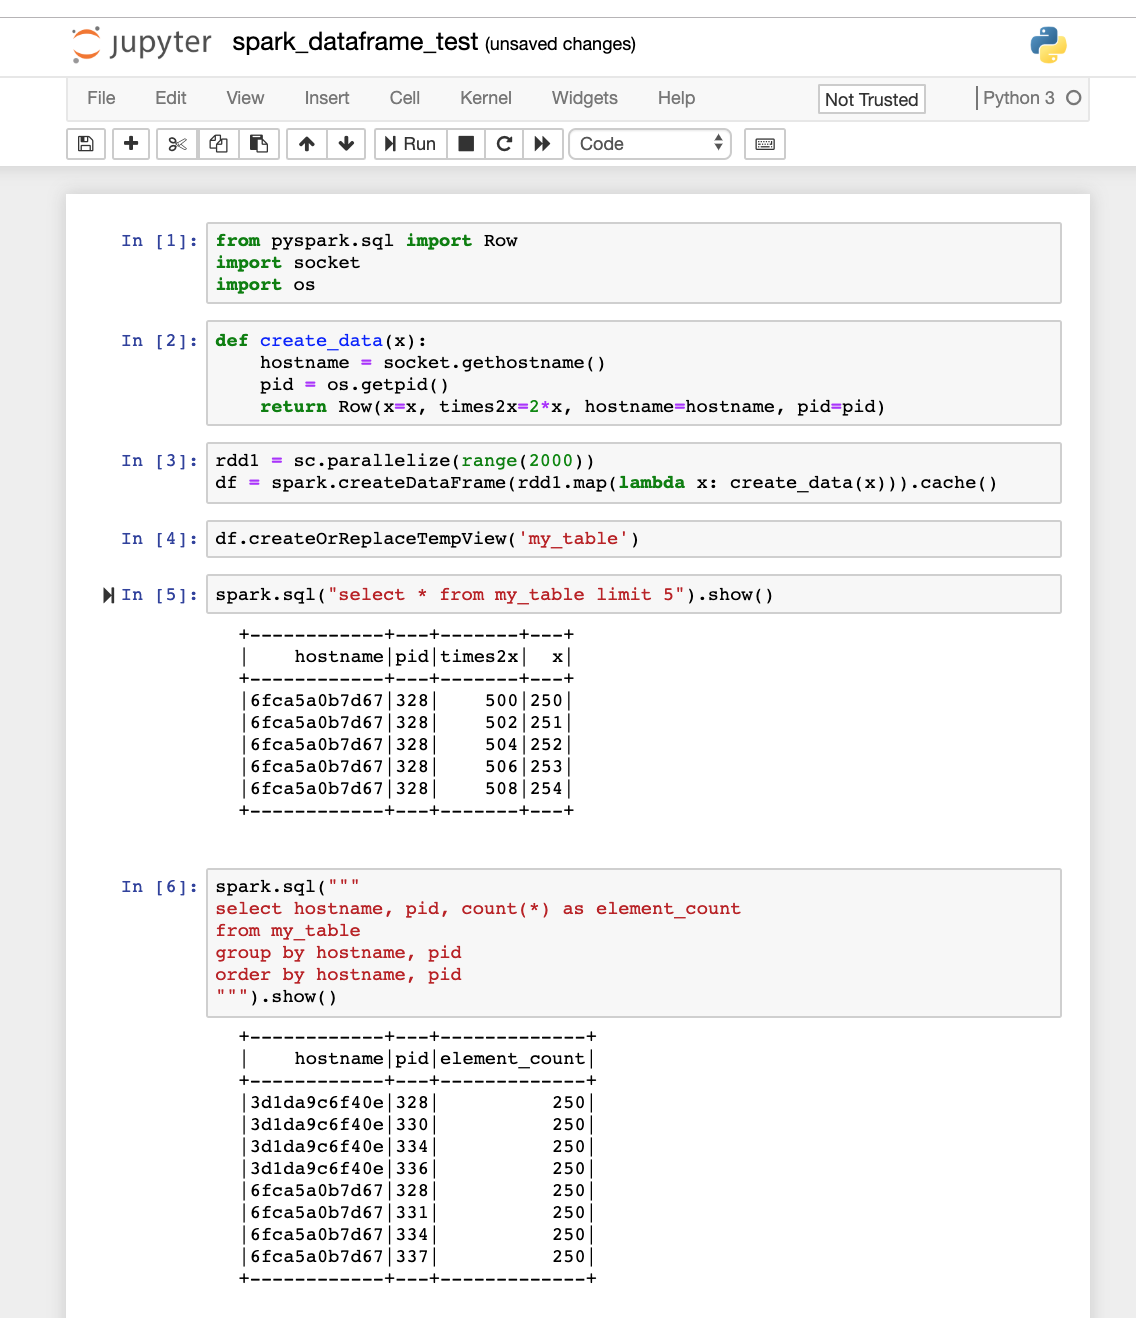
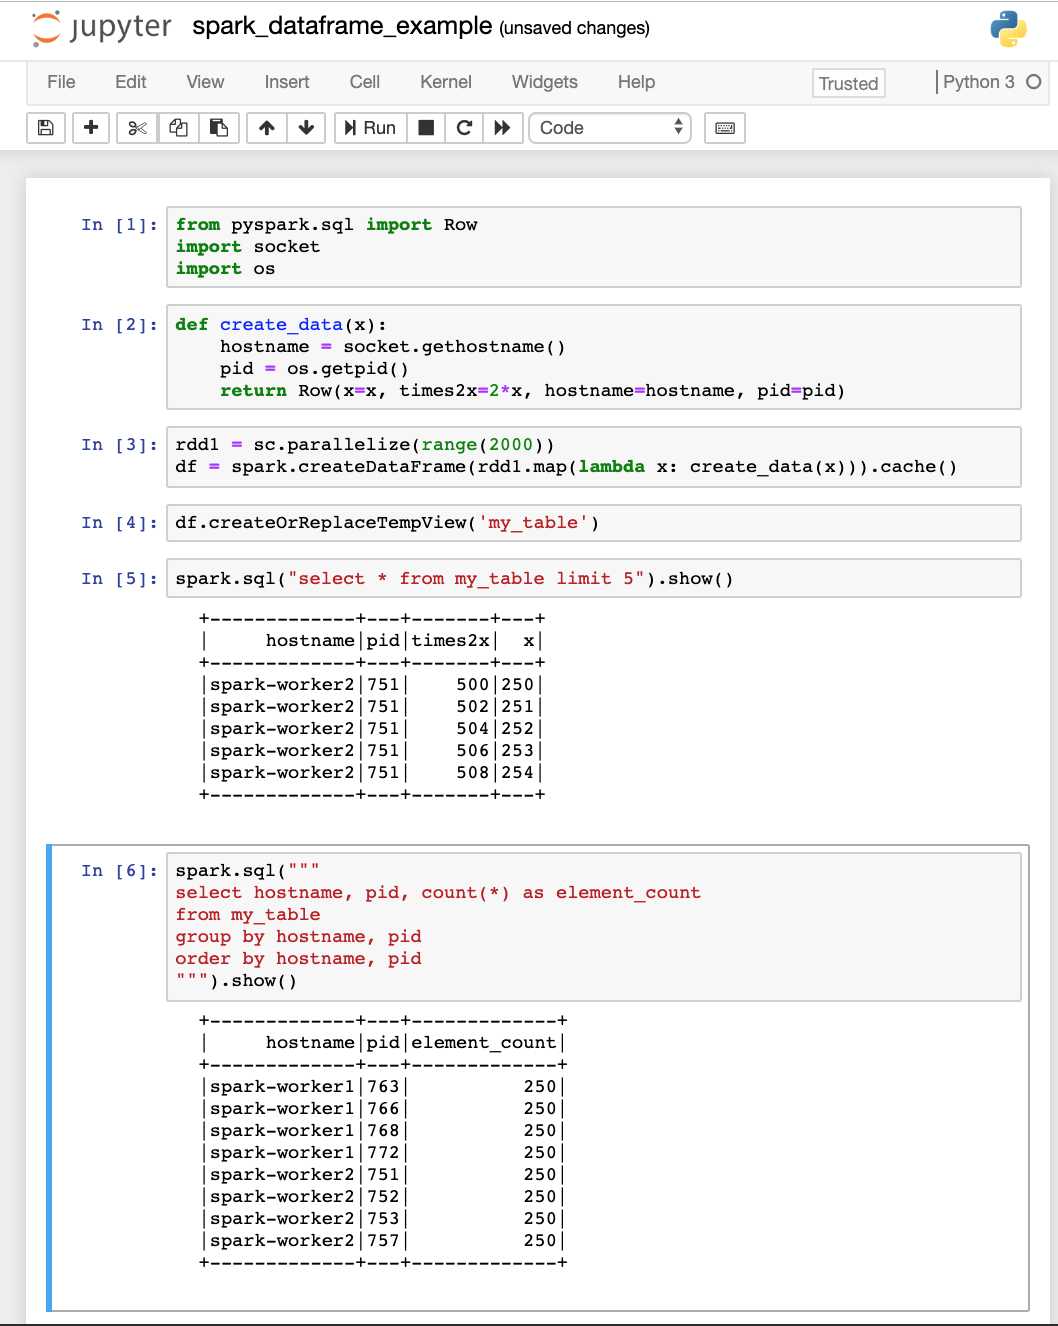
updated documentation for rationalized hostnames

Changed region(s): [[0.0, 0.0, 1.0, 1.0], [0.9357, 0.3111, 0.9669, 0.3422], [0.9357, 0.2178, 0.9669, 0.2489]]

diff --git a/README.md b/README.md
@@ -69,12 +69,12 @@ docker-compose up --detach
 
 To verify the cluster successfully started, run the `docker-compose ps` command.  The output should look similar to below.  
 ```
-       Name                      Command               State                                   Ports                                 
--------------------------------------------------------------------------------------------------------------------------------------
-sprkclstr_master_1    /usr/bin/tini -- /spark/st ...   Up      0.0.0.0:8080->8080/tcp                                                
-sprkclstr_pyspnb_1    /usr/bin/tini -- /spark/st ...   Up      0.0.0.0:4040->4040/tcp, 0.0.0.0:4041->4041/tcp, 0.0.0.0:8888->8888/tcp
-sprkclstr_worker1_1   /usr/bin/tini -- /spark/st ...   Up      0.0.0.0:18081->18081/tcp                                              
-sprkclstr_worker2_1   /usr/bin/tini -- /spark/st ...   Up      0.0.0.0:28081->28081/tcp 
+          Name                         Command               State                                   Ports
+-------------------------------------------------------------------------------------------------------------------------------------------
+sprkclstr_pyspnb-client_1   /usr/bin/tini -- /spark/st ...   Up      0.0.0.0:4040->4040/tcp, 0.0.0.0:4041->4041/tcp, 0.0.0.0:8888->8888/tcp
+sprkclstr_spark-master_1    /usr/bin/tini -- /spark/st ...   Up      0.0.0.0:8080->8080/tcp
+sprkclstr_spark-worker1_1   /usr/bin/tini -- /spark/st ...   Up      0.0.0.0:18081->18081/tcp
+sprkclstr_spark-worker2_1   /usr/bin/tini -- /spark/st ...   Up      0.0.0.0:28081->28081/tcp
 ```
 
 ## Shutdown Stand-alone Spark Cluster
@@ -114,82 +114,95 @@ The following web UIs are available:
 ## Using `spark-submit` on the Stand-alone Spark Cluster
 In addition to a PySpark Jupyter Notebook Server, it is possible to use the `spark-submit` cli to submit work to the cluster.  These are the steps to use `spark-submit`:
 
-* Connect to the `pyspnb` container using `docker exec -it sprkclstr_pyspnb_1 /bin/bash` command.  Note:  Container name is the one dispalyed for the `pyspnb` image shown by the `docker-compose ps` command.
-* Once connected, remove the `PYSPARK_DRIVER_PYTHON` environment variable by executing this command `unset PYSPARK_DRIVER_PYTHON`
+* Connect to the `pyspnb` container using `docker exec -it sprkclstr_pyspnb-client_1 /bin/bash` command.  Note:  Container name is the one dispalyed for the `pyspnb` image shown by the `docker-compose ps` command.
 * Navigate to the container directory containing program to run with `spark-submit`
 * Execute the `spark-submit` command
 
-Following is an example of the above steps.
+Following illustrates the above steps with embedded commentary.
 ```
-Jim-MacBook-Pro:~ jim$ docker exec -it sprkclstr_pyspnb_1 /bin/bash
+#
+# On the host, execute `docker exec`
+#
+Jim-MacBook-Pro:~ jim$ docker exec -it sprkclstr_pyspnb-client_1 /bin/bash
 
-(base) root@4ff5c2e8ebe6:/# unset PYSPARK_DRIVER_PYTHON
-
-(base) root@4ff5c2e8ebe6:/# pwd
+#
+# Following commands are executed in the sprkclstr_pyspnb-client_1 container
+#
+(base) root@pyspnb-client:/opt/project# hostname
+pyspnb-client
+(base) root@pyspnb-client:/# pwd
 /
+(base) root@pyspnb-client:/# ls
+bin  boot  dev	etc  home  lib	lib64  media  mnt  opt	proc  root  run  sbin  spark  srv  sys	tmp  usr  var
 
-(base) root@4ff5c2e8ebe6:/# cd /opt/project
-
-(base) root@4ff5c2e8ebe6:/opt/project# ls
+#
+# navigate to the directory in the container with program to run
+#
+(base) root@pyspnb-client:/# cd /opt/project
+(base) root@pyspnb-client:/opt/project# ls
 README.md    derby.log	   spark_dataframe_example.ipynb  spark_hive_create_table.ipynb
 __pycache__  metastore_db  spark_dataframe_example.py	  spark_hive_read_table.ipynb
 
-(base) root@4ff5c2e8ebe6:/opt/project# spark-submit --master spark://master:7077 spark_dataframe_example.py
-19/04/21 14:14:30 WARN NativeCodeLoader: Unable to load native-hadoop library for your platform... using builtin-java classes where applicable
+#
+# Execute `spark-submit` specifying spark-master and Python progrma to run.
+#
+(base) root@pyspnb-client:/opt/project# spark-submit --master spark://spark-master:7077 spark_dataframe_example.py
+19/04/21 17:52:41 WARN NativeCodeLoader: Unable to load native-hadoop library for your platform... using builtin-java classes where applicable
 Using Spark's default log4j profile: org/apache/spark/log4j-defaults.properties
-19/04/21 14:14:31 INFO SparkContext: Running Spark version 2.4.1
-19/04/21 14:14:31 INFO SparkContext: Submitted application: PySpark - Test
-19/04/21 14:14:31 INFO SecurityManager: Changing view acls to: root
-19/04/21 14:14:31 INFO SecurityManager: Changing modify acls to: root
-19/04/21 14:14:31 INFO SecurityManager: Changing view acls groups to:
-19/04/21 14:14:31 INFO SecurityManager: Changing modify acls groups to:
-19/04/21 14:14:31 INFO SecurityManager: SecurityManager: authentication disabled; ui acls disabled; users  with view permissions: Set(root); groups with view permissions: Set(); users  with modify permissions: Set(root); groups with modify permissions: Set()
-19/04/21 14:14:31 INFO Utils: Successfully started service 'sparkDriver' on port 36991.
-19/04/21 14:14:31 INFO SparkEnv: Registering MapOutputTracker
-19/04/21 14:14:31 INFO SparkEnv: Registering BlockManagerMaster
-19/04/21 14:14:31 INFO BlockManagerMasterEndpoint: Using org.apache.spark.storage.DefaultTopologyMapper for getting topology information
-19/04/21 14:14:31 INFO BlockManagerMasterEndpoint: BlockManagerMasterEndpoint up
-19/04/21 14:14:31 INFO DiskBlockManager: Created local directory at /tmp/blockmgr-1fb4e05f-a128-49ac-bb0a-ea08476f0cf0
-19/04/21 14:14:31 INFO MemoryStore: MemoryStore started with capacity 366.3 MB
-19/04/21 14:14:31 INFO SparkEnv: Registering OutputCommitCoordinator
-19/04/21 14:14:31 INFO Utils: Successfully started service 'SparkUI' on port 4040.
-19/04/21 14:14:31 INFO SparkUI: Bound SparkUI to 0.0.0.0, and started at http://localhost:4040
-19/04/21 14:14:31 INFO StandaloneAppClient$ClientEndpoint: Connecting to master spark://master:7077...
-19/04/21 14:14:31 INFO TransportClientFactory: Successfully created connection to master/172.24.0.5:7077 after 25 ms (0 ms spent in bootstraps)
-19/04/21 14:14:31 INFO StandaloneSchedulerBackend: Connected to Spark cluster with app ID app-20190421141431-0012
-19/04/21 14:14:31 INFO StandaloneAppClient$ClientEndpoint: Executor added: app-20190421141431-0012/0 on worker-20190421111253-172.24.0.3-34235 (172.24.0.3:34235) with 4 core(s)
-19/04/21 14:14:31 INFO StandaloneSchedulerBackend: Granted executor ID app-20190421141431-0012/0 on hostPort 172.24.0.3:34235 with 4 core(s), 1024.0 MB RAM
-19/04/21 14:14:31 INFO StandaloneAppClient$ClientEndpoint: Executor added: app-20190421141431-0012/1 on worker-20190421111253-172.24.0.2-45981 (172.24.0.2:45981) with 4 core(s)
-19/04/21 14:14:31 INFO StandaloneSchedulerBackend: Granted executor ID app-20190421141431-0012/1 on hostPort 172.24.0.2:45981 with 4 core(s), 1024.0 MB RAM
-19/04/21 14:14:31 INFO Utils: Successfully started service 'org.apache.spark.network.netty.NettyBlockTransferService' on port 45187.
-19/04/21 14:14:31 INFO NettyBlockTransferService: Server created on 4ff5c2e8ebe6:45187
-19/04/21 14:14:31 INFO BlockManager: Using org.apache.spark.storage.RandomBlockReplicationPolicy for block replication policy
-19/04/21 14:14:31 INFO StandaloneAppClient$ClientEndpoint: Executor updated: app-20190421141431-0012/1 is now RUNNING
-19/04/21 14:14:31 INFO StandaloneAppClient$ClientEndpoint: Executor updated: app-20190421141431-0012/0 is now RUNNING
-19/04/21 14:14:32 INFO BlockManagerMaster: Registering BlockManager BlockManagerId(driver, 4ff5c2e8ebe6, 45187, None)
-19/04/21 14:14:32 INFO BlockManagerMasterEndpoint: Registering block manager 4ff5c2e8ebe6:45187 with 366.3 MB RAM, BlockManagerId(driver, 4ff5c2e8ebe6, 45187, None)
-19/04/21 14:14:32 INFO BlockManagerMaster: Registered BlockManager BlockManagerId(driver, 4ff5c2e8ebe6, 45187, None)
-19/04/21 14:14:32 INFO BlockManager: Initialized BlockManager: BlockManagerId(driver, 4ff5c2e8ebe6, 45187, None)
-19/04/21 14:14:32 INFO StandaloneSchedulerBackend: SchedulerBackend is ready for scheduling beginning after reached minRegisteredResourcesRatio: 0.0
-19/04/21 14:14:32 INFO SharedState: Setting hive.metastore.warehouse.dir ('null') to the value of spark.sql.warehouse.dir ('file:/opt/project/spark-warehouse').
-19/04/21 14:14:32 INFO SharedState: Warehouse path is 'file:/opt/project/spark-warehouse'.
-19/04/21 14:14:32 INFO StateStoreCoordinatorRef: Registered StateStoreCoordinator endpoint
-19/04/21 14:14:39 WARN ObjectStore: Failed to get database global_temp, returning NoSuchObjectException
-+------------+----+-------+---+
-|    hostname| pid|times2x|  x|
-+------------+----+-------+---+
-|3d1da9c6f40e|1349|      0|  0|
-|3d1da9c6f40e|1349|      2|  1|
-|3d1da9c6f40e|1349|      4|  2|
-|3d1da9c6f40e|1349|      6|  3|
-|3d1da9c6f40e|1349|      8|  4|
-+------------+----+-------+---+
+19/04/21 17:52:42 INFO SparkContext: Running Spark version 2.4.1
+19/04/21 17:52:42 INFO SparkContext: Submitted application: PySpark - Test
+19/04/21 17:52:42 INFO SecurityManager: Changing view acls to: root
+19/04/21 17:52:42 INFO SecurityManager: Changing modify acls to: root
+19/04/21 17:52:42 INFO SecurityManager: Changing view acls groups to:
+19/04/21 17:52:42 INFO SecurityManager: Changing modify acls groups to:
+19/04/21 17:52:42 INFO SecurityManager: SecurityManager: authentication disabled; ui acls disabled; users  with view permissions: Set(root); groups with view permissions: Set(); users  with modify permissions: Set(root); groups with modify permissions: Set()
+19/04/21 17:52:42 INFO Utils: Successfully started service 'sparkDriver' on port 35171.
+19/04/21 17:52:42 INFO SparkEnv: Registering MapOutputTracker
+19/04/21 17:52:42 INFO SparkEnv: Registering BlockManagerMaster
+19/04/21 17:52:42 INFO BlockManagerMasterEndpoint: Using org.apache.spark.storage.DefaultTopologyMapper for getting topology information
+19/04/21 17:52:42 INFO BlockManagerMasterEndpoint: BlockManagerMasterEndpoint up
+19/04/21 17:52:42 INFO DiskBlockManager: Created local directory at /tmp/blockmgr-af98fe96-6233-4559-8c98-1f3157876bf8
+19/04/21 17:52:42 INFO MemoryStore: MemoryStore started with capacity 366.3 MB
+19/04/21 17:52:42 INFO SparkEnv: Registering OutputCommitCoordinator
+19/04/21 17:52:43 INFO Utils: Successfully started service 'SparkUI' on port 4040.
+19/04/21 17:52:43 INFO SparkUI: Bound SparkUI to 0.0.0.0, and started at http://localhost:4040
+19/04/21 17:52:43 INFO StandaloneAppClient$ClientEndpoint: Connecting to master spark://spark-master:7077...
+19/04/21 17:52:43 INFO TransportClientFactory: Successfully created connection to spark-master/172.23.0.5:7077 after 59 ms (0 ms spent in bootstraps)
+19/04/21 17:52:43 INFO StandaloneSchedulerBackend: Connected to Spark cluster with app ID app-20190421175243-0005
+19/04/21 17:52:43 INFO Utils: Successfully started service 'org.apache.spark.network.netty.NettyBlockTransferService' on port 43883.
+19/04/21 17:52:43 INFO NettyBlockTransferService: Server created on pyspnb-client:43883
+19/04/21 17:52:43 INFO BlockManager: Using org.apache.spark.storage.RandomBlockReplicationPolicy for block replication policy
+19/04/21 17:52:43 INFO StandaloneAppClient$ClientEndpoint: Executor added: app-20190421175243-0005/0 on worker-20190421173102-172.23.0.4-36343 (172.23.0.4:36343) with 4 core(s)
+19/04/21 17:52:43 INFO StandaloneSchedulerBackend: Granted executor ID app-20190421175243-0005/0 on hostPort 172.23.0.4:36343 with 4 core(s), 1024.0 MB RAM
+19/04/21 17:52:43 INFO StandaloneAppClient$ClientEndpoint: Executor added: app-20190421175243-0005/1 on worker-20190421173102-172.23.0.2-35975 (172.23.0.2:35975) with 4 core(s)
+19/04/21 17:52:43 INFO StandaloneSchedulerBackend: Granted executor ID app-20190421175243-0005/1 on hostPort 172.23.0.2:35975 with 4 core(s), 1024.0 MB RAM
+19/04/21 17:52:43 INFO StandaloneAppClient$ClientEndpoint: Executor updated: app-20190421175243-0005/0 is now RUNNING
+19/04/21 17:52:43 INFO StandaloneAppClient$ClientEndpoint: Executor updated: app-20190421175243-0005/1 is now RUNNING
+19/04/21 17:52:43 INFO BlockManagerMaster: Registering BlockManager BlockManagerId(driver, pyspnb-client, 43883, None)
+19/04/21 17:52:43 INFO BlockManagerMasterEndpoint: Registering block manager pyspnb-client:43883 with 366.3 MB RAM, BlockManagerId(driver, pyspnb-client, 43883, None)
+19/04/21 17:52:43 INFO BlockManagerMaster: Registered BlockManager BlockManagerId(driver, pyspnb-client, 43883, None)
+19/04/21 17:52:43 INFO BlockManager: Initialized BlockManager: BlockManagerId(driver, pyspnb-client, 43883, None)
+19/04/21 17:52:43 INFO StandaloneSchedulerBackend: SchedulerBackend is ready for scheduling beginning after reached minRegisteredResourcesRatio: 0.0
+19/04/21 17:52:44 INFO SharedState: Setting hive.metastore.warehouse.dir ('null') to the value of spark.sql.warehouse.dir ('file:/opt/project/spark-warehouse').
+19/04/21 17:52:44 INFO SharedState: Warehouse path is 'file:/opt/project/spark-warehouse'.
+19/04/21 17:52:45 INFO StateStoreCoordinatorRef: Registered StateStoreCoordinator endpoint
+19/04/21 17:52:56 WARN ObjectStore: Failed to get database global_temp, returning NoSuchObjectException
++-------------+---+-------+---+
+|     hostname|pid|times2x|  x|
++-------------+---+-------+---+
+|spark-worker1|644|      0|  0|
+|spark-worker1|644|      2|  1|
+|spark-worker1|644|      4|  2|
+|spark-worker1|644|      6|  3|
+|spark-worker1|644|      8|  4|
++-------------+---+-------+---+
 
-+------------+----+-------------+
-|    hostname| pid|element_count|
-+------------+----+-------------+
-|3d1da9c6f40e|1349|         1000|
-|6fca5a0b7d67|1356|         1000|
-+------------+----+-------------+
++-------------+---+-------------+
+|     hostname|pid|element_count|
++-------------+---+-------------+
+|spark-worker1|644|         1000|
+|spark-worker2|638|         1000|
++-------------+---+-------------+
 
+(base) root@pyspnb-client:/opt/project#
 ```
